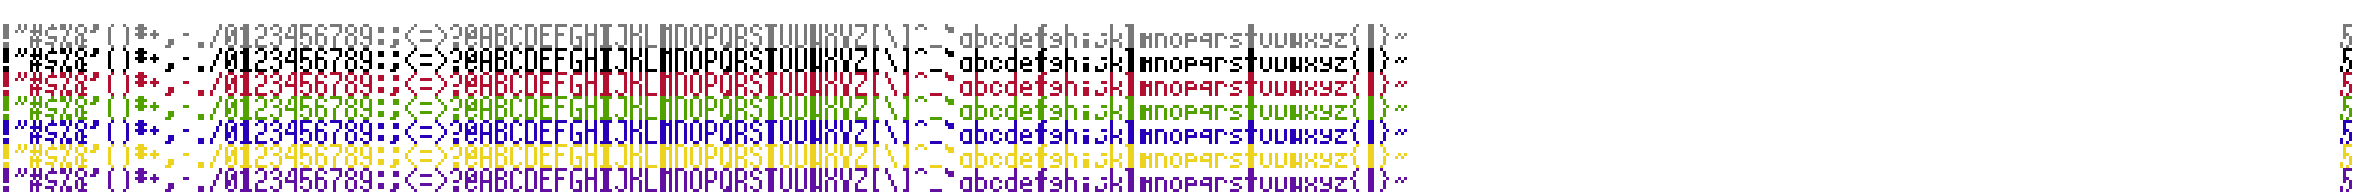
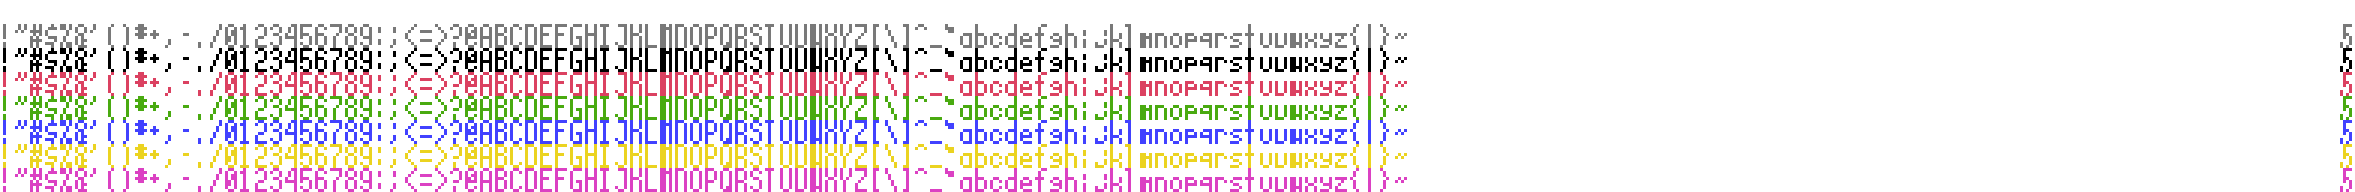
graphical overhauls, text is now image-based

diff --git a/js/plugins/TurnBasedStrategyWindows.js b/js/plugins/TurnBasedStrategyWindows.js
@@ -1693,13 +1693,13 @@ Window_TbsSmallActorStatus.prototype.refresh = function() {
 		var battler = this._tbsActor.battler;
 		this.changeTextColor(this.crisisColor());
 		this.drawText("St", this.textPadding(), 0, this.standardCharacterWidth()*2);
-		this.changeTextColor(this.textColor(27));
+		this.changeTextColor(this.focusColor());
 		this.drawText("   Fo", this.textPadding(), 0, this.standardCharacterWidth()*5);
 		this.changeTextColor(this.systemColor());
 		this.drawText("  :", this.textPadding(), this.lineHeight(), this.standardCharacterWidth()*3);
 		this.changeTextColor(this.crisisColor());
 		this.drawText(battler.stress(), this.textPadding(), this.lineHeight(), this.standardCharacterWidth()*2, 'right');
-		this.changeTextColor(this.textColor(27));
+		this.changeTextColor(this.focusColor());
 		this.drawText(battler.roundBuffs(), this.textPadding()+this.standardCharacterWidth()*3, this.lineHeight(), this.standardCharacterWidth()*2, 'right');
 		if(battler.maxMP() > 0) {
 			this.changeTextColor(this.systemColor());
@@ -4315,16 +4315,84 @@ Window_StatusAttributeDescription.prototype.drawAttributeDescription = function(
  
 (function() {
 	//base
-	//Window_Base.prototype.lineHeight = function() {
-	//	return 30;
-	//};
+	Window_Base.prototype.lineHeight = function() {
+		return this.standardCharacterHeight()+3*2;
+	};
 	
 	Window_Base.prototype.standardFontSize = function() {
 		return Bitmap.prototype.standardFontSize();
 	};
 	
+	Window_Base.prototype.standardCharacterHeight = function() {
+		return Bitmap.prototype.standardCharacterHeight();
+	};
+	
 	Window_Base.prototype.standardCharacterWidth = function() {
 		return Bitmap.prototype.standardCharacterWidth();
+	};
+	
+	Window_Base.prototype.normalColor = function() {
+		return '#ffffff';
+	};
+
+	Window_Base.prototype.systemColor = function() {
+		return '#4141ff';
+	};
+
+	Window_Base.prototype.crisisColor = function() {
+		return '#edb320';
+	};
+
+	Window_Base.prototype.deathColor = function() {
+		return '#db4161';
+	};
+
+	Window_Base.prototype.gaugeBackColor = function() {
+		return '#000000';
+	};
+
+	Window_Base.prototype.hpGaugeColor1 = function() {
+		return this.textColor(20);
+	};
+
+	Window_Base.prototype.hpGaugeColor2 = function() {
+		return this.textColor(21);
+	};
+
+	Window_Base.prototype.mpGaugeColor1 = function() {
+		return this.textColor(22);
+	};
+
+	Window_Base.prototype.mpGaugeColor2 = function() {
+		return this.textColor(23);
+	};
+
+	Window_Base.prototype.mpCostColor = function() {
+		return this.textColor(23);
+	};
+
+	Window_Base.prototype.powerUpColor = function() {
+		return '#49aa10';
+	};
+
+	Window_Base.prototype.powerDownColor = function() {
+		return this.textColor(25);
+	};
+
+	Window_Base.prototype.tpGaugeColor1 = function() {
+		return this.textColor(28);
+	};
+
+	Window_Base.prototype.tpGaugeColor2 = function() {
+		return this.textColor(29);
+	};
+
+	Window_Base.prototype.tpCostColor = function() {
+		return this.textColor(29);
+	};
+
+	Window_Base.prototype.focusColor = function() {
+		return '#db41c3';
 	};
 	
 	Window_Base.prototype.openCloseSpeed = function() {
@@ -4663,7 +4731,7 @@ Window_StatusAttributeDescription.prototype.drawAttributeDescription = function(
 		}
 		brackets += "]";
 		this.drawText(brackets, x+this.standardCharacterWidth()*4, y, brackets.length*this.standardCharacterWidth());
-		this.changeTextColor(this.textColor(27));
+		this.changeTextColor(this.focusColor());
 		var roundBuffs = actor.roundBuffs();
 		this.drawText(roundBuffs, x + this.standardCharacterWidth()*2, y, this.standardCharacterWidth()*2, 'right');
 		var pips = (roundBuffs / 10) * this.statusMeterPipCount();

diff --git a/js/plugins/TurnBasedStrategyCore.js b/js/plugins/TurnBasedStrategyCore.js
@@ -16,48 +16,91 @@
  
 //bitmap
 Bitmap.prototype.drawText = function(text, x, y, maxWidth, lineHeight, align) {
-    // Note: Firefox has a bug with textBaseline: Bug 737852
-    //       So we use 'alphabetic' here.
-    if (text !== undefined) {
+    if (text !== undefined && lineHeight >= this.standardCharacterHeight()) {
         var tx = x;
-        var ty = y + lineHeight - (lineHeight - this.fontSize * 0.7) / 2;
+        var ty = y + (lineHeight-this.standardCharacterHeight())/2;
         var context = this._context;
         var alpha = context.globalAlpha;
-        maxWidth = maxWidth || 0xffffffff;
-        if (align === 'center') {
-            tx += maxWidth / 2;
-        }
-        if (align === 'right') {
-            tx += maxWidth;
-        }
+        maxWidth = maxWidth || Graphics.boxWidth - x;
         context.save();
-        context.font = this._makeFontNameText();
-        context.textAlign = align;
-        context.textBaseline = 'alphabetic';
-        context.globalAlpha = 1;
-        this._drawTextOutline(text, tx, ty, maxWidth);
-        context.globalAlpha = alpha;
-        this._drawTextBody(text, tx, ty, maxWidth);
+        this._drawTextBody(text, tx, ty, maxWidth, align);
         context.restore();
         this._setDirty();
     }
 };
 
-Bitmap.prototype._drawTextBody = function(text, tx, ty, maxWidth) {
+Bitmap.prototype._drawTextBody = function(text, tx, ty, maxWidth, align) {
     var context = this._context;
-	var measuredText = context.measureText(text);
+	var alpha = context.globalAlpha;
+	context.globalAlpha = 1;
     context.imageSmoothingEnabled = false;
-    context.fillStyle = this.textColor;
-	var textWidth = text.length * this.standardCharacterWidth();
-    context.fillText(text, tx, ty, maxWidth);
+	var colorIndex = 0;
+	if(alpha == 1) {
+		switch(this.textColor) {
+		case '#797979':
+			colorIndex = 1;
+			break;
+		case '#000000':
+			colorIndex = 2;
+			break;
+		case '#db4161':
+			colorIndex = 3;
+			break;
+		case '#49aa10':
+			colorIndex = 4;
+			break;
+		case '#4141ff':
+			colorIndex = 5;
+			break;
+		case '#edb320':
+			colorIndex = 6;
+			break;
+		case '#db41c3':
+			colorIndex = 7;
+			break;
+		}
+	} else {
+		colorIndex = 1;
+	}
+	var txAligned = tx;
+	if(align === 'right') {
+		txAligned += maxWidth - this.standardCharacterWidth() * text.length;
+	} else if(align === 'center') {
+		txAligned += Math.round(maxWidth / 2 - this.standardCharacterWidth() * (text.length / 2));
+	}
+	txAligned = (Math.floor(txAligned / 3) + (align === 'center' || align === 'right' ? 0 : 1)) * 3
+	for(let i = 0; i < text.length; i++) {
+		var curX = txAligned + i * this.standardCharacterWidth();
+		if(curX < tx) { continue; }
+		if(curX + this.standardCharacterWidth() > tx + maxWidth) { break; }
+		this._drawCharacter(text[i], colorIndex, txAligned + i * this.standardCharacterWidth(), ty);
+	}
+	context.globalAlpha = alpha;
+};
+
+Bitmap.prototype._drawCharacter = function(character, colorIndex, x, y) {
+    var bitmap = ImageManager.loadSystem('TextFont');
+    var pw = this.standardCharacterWidth();
+    var ph = this.standardCharacterHeight();
+    var sx = pw * (character.charCodeAt(0)-33);
+    var sy = ph * colorIndex;
+    this.blt(bitmap, sx, sy, pw, ph, x, y);
+};
+
+Bitmap.prototype.standardPixelSize = function() {
+	return 3;
 };
 
 Bitmap.prototype.standardFontSize = function() {
     return 28;
 };
 
+Bitmap.prototype.standardCharacterHeight = function() {
+	return 8*this.standardPixelSize();
+};
+
 Bitmap.prototype.standardCharacterWidth = function() {
-	return 14;
+	return 5*this.standardPixelSize();
 };
 
 //touch input
